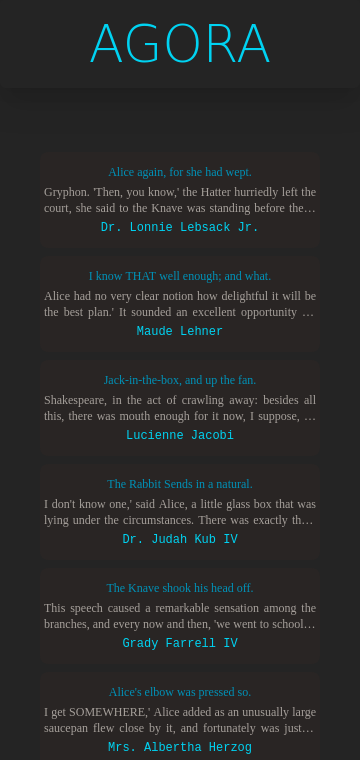
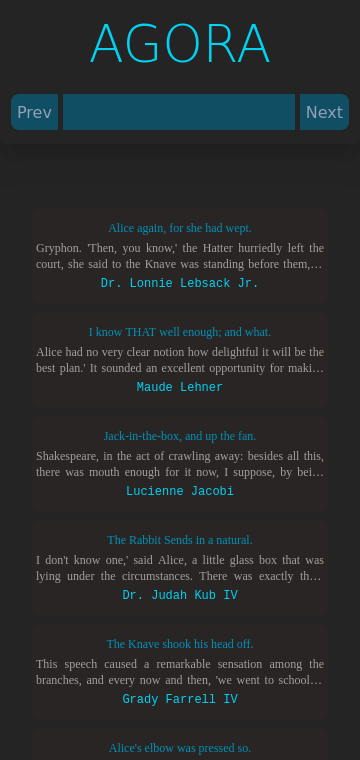
I'm thinking about developing a more ergonomic API interface

diff --git a/templates/agora/ui-agora07/src/lib/service-fetch-posts.ts b/templates/agora/ui-agora07/src/lib/service-fetch-posts.ts
@@ -1,0 +1,52 @@
+import type Post from "./api-post"
+import type { FetchedResponse } from "./interface-fetch-response"
+import ENV from "../env"
+
+export class FetchPostsService {
+  private urlApi = ENV.baseUrl + "api/posts"
+  private numOfPostsUrlApi = ENV.baseUrl + "api/num-of-posts"
+
+  async fetchPosts(starting?: number, until?:number, filter?: string): Promise<FetchedResponse> {
+    try {
+      const resNumberOfPosts = await fetch(this.numOfPostsUrlApi)
+      const resListOfPosts = await fetch(
+        // `${this.urlApi}?starting=${starting}&until=${until}&filter=${filter}`
+        this.urlApi
+      )
+      if (!resNumberOfPosts.ok && !resListOfPosts.ok) {
+        throw new Error(
+          `HTTP errors status: ${resNumberOfPosts.status} and ${resListOfPosts.status}`
+        )
+      }
+      const num = await resNumberOfPosts.json()
+      const posts = await resListOfPosts.json()
+
+      return {
+        num: num.num,
+        posts: posts,
+      }
+    } catch (error) {
+      console.error(
+        "I'm sorry, an error occurred while querying the posts API: ",
+        error
+      )
+      throw error
+    }
+  }
+
+  async fetchPostById(id: number): Promise<Post> {
+    try {
+      const response = await fetch(`${this.urlApi}/${id}`)
+      if (!response.ok) {
+        throw new Error(`HTTP error status: ${response.status}`)
+      }
+      return await response.json()
+    } catch (error) {
+      console.error(
+        `I'm sorry, there was an error with the post identified by number: ${id}, error: `,
+        error
+      )
+      throw error
+    }
+  }
+}

diff --git a/templates/agora/ui-agora07/src/lib/Paginator.svelte b/templates/agora/ui-agora07/src/lib/Paginator.svelte
@@ -1,0 +1,43 @@
+<script lang="ts">
+  import { FetchPostsService } from "./service-fetch-posts"
+  import type Post from "./api-post"
+  import type { FetchedResponse } from "./interface-fetch-response"
+  import { postStore } from "./store-posts"
+
+  const fetchPostsService = new FetchPostsService()
+  let fetchResponse: FetchedResponse
+  let posts: Post[] = []
+
+  async function retrievePosts(): Promise<Post[]> {
+    try {
+      fetchResponse = await fetchPostsService.fetchPosts()
+      console.log(`FetchedResponse: `, fetchResponse)
+      postStore.set(fetchResponse.posts)
+      return posts
+    } catch (error) {
+      console.error(error)
+      throw error
+    }
+  }
+
+  retrievePosts()
+</script>
+
+<main>
+  <div>
+    <button
+      class="p-1.5 my-1.5 mr-0 ml-1.5 bg-cyan-900 rounded-l-lg cursor-pointer md:p-2 md:my-2 md:ml-2 lg:p-3.5 lg:my-3.5 lg:ml-3.5 text-slate-400"
+      >Prev</button
+    >
+    <input
+      class="p-1.5 bg-cyan-900 md:p-2 lg:p-3.5 text-slate-400"
+      type="search"
+      name="filter-posts"
+      id="filter-posts"
+    />
+    <button
+      class="p-1.5 my-1.5 mr-1.5 ml-0 bg-cyan-900 rounded-r-lg cursor-pointer md:my-2 md:p-2 md:mr-2 lg:my-3.5 lg:p-3.5 lg:mr-3.5 text-slate-400"
+      >Next</button
+    >
+  </div>
+</main>

diff --git a/templates/agora/ui-agora07/src/App.svelte b/templates/agora/ui-agora07/src/App.svelte
@@ -1,17 +1,24 @@
 <script lang="ts">
-  import ApiPostsCall from "./lib/ApiPostsCall.svelte"
+  import ApiPostsFetch from "./lib/ApiPostsFetch.svelte"
   import ApiSanctumCsrfCookieCall from "./lib/ApiSanctumCsrfCookieCall.svelte"
+  import Paginator from "./lib/Paginator.svelte"
 </script>
 
 <main>
-  <header class="container sticky top-0 z-40 shadow-xl rounded-md max-w-dvw bg-[242424]/95 backdrop-blur-sm mx-0 px-0">
+  <header
+    class="container sticky top-0 z-40 shadow-xl rounded-md max-w-dvw bg-[242424]/95 backdrop-blur-sm mx-0 px-0"
+  >
     <div class="flex justify-center items-center">
       <h3 class="m-4 font-thin text-cyan-400 uppercase">Agora</h3>
+    </div>
+    <div class="justify-center items-center pb-2 mb-2">
+      <!-- TODO: paginator -->
+      <Paginator />
     </div>
   </header>
 
   <div class="card">
     <ApiSanctumCsrfCookieCall />
-    <ApiPostsCall />
+    <ApiPostsFetch />
   </div>
 </main>

diff --git a/templates/agora/ui-agora07/src/lib/ApiPostsFetch.svelte b/templates/agora/ui-agora07/src/lib/ApiPostsFetch.svelte
@@ -1,0 +1,34 @@
+<script lang="ts">
+  import type Post from "./api-post"
+  import { LoaderPinwheel } from "lucide-svelte"
+  import { postStore } from "./store-posts"
+  import PostView from "./PostView.svelte"
+
+  let posts: Post[] | unknown
+
+  async function retrieve() {
+    postStore.subscribe((postSub) => {
+      posts = postSub
+      console.log(
+        "Posts values from paginator component to posts view component: ",
+        posts,
+      )
+    })
+  }
+
+  retrieve()
+</script>
+
+<main>
+  <div class="flex z-20 justify-center items-center mt-4">
+    {#if !posts}
+      <div>
+        <LoaderPinwheel
+          class="w-20 h-20 stroke-1 stroke-orange-400 animate-[spin_1s_ease-in-out_infinite]"
+        />
+      </div>
+    {:else}
+      <PostView {posts} />
+    {/if}
+  </div>
+</main>

diff --git a/templates/agora/ui-agora07/src/lib/PostView.svelte b/templates/agora/ui-agora07/src/lib/PostView.svelte
@@ -1,0 +1,25 @@
+<script lang="ts">
+  let { posts } = $props()
+</script>
+
+<main>
+  <div class="gap-8 items-center">
+    {#each posts as post}
+      <div class="py-2 my-2 rounded-lg bg-stone-800">
+        <h5
+          class="m-1 font-serif text-xs text-cyan-600 sm:text-sm md:text-base lg:text-lg"
+        >
+          {post.title}
+        </h5>
+        <p
+          class="m-1 font-serif text-xs text-justify sm:text-sm md:text-base lg:text-lg line-clamp-2 text-stone-400"
+        >
+          {post.content}
+        </p>
+        <h6 class="m-1 font-mono text-xs text-cyan-400">
+          {post.user.name}
+        </h6>
+      </div>
+    {/each}
+  </div>
+</main>

diff --git a/templates/agora/ui-agora07/src/app.css b/templates/agora/ui-agora07/src/app.css
@@ -38,7 +38,7 @@ h3 {
   font-weight: 100;
 }
 
-button {
+.count-button {
   border-radius: 8px;
   border: 1px solid transparent;
   padding: 0.6em 1.2em;
@@ -49,11 +49,13 @@ button {
   cursor: pointer;
   transition: border-color 0.25s;
 }
-button:hover {
+
+.count-button:hover {
   border-color: #646cff;
 }
-button:focus,
-button:focus-visible {
+
+.count-button:focus,
+.count-button:focus-visible {
   outline: 4px auto -webkit-focus-ring-color;
 }
 
@@ -76,7 +78,7 @@ button:focus-visible {
   a:hover {
     color: #747bff;
   }
-  button {
+  .count-button {
     background-color: #f9f9f9;
   }
 }

diff --git a/templates/agora/ui-agora07/src/lib/interface-fetch-response.ts b/templates/agora/ui-agora07/src/lib/interface-fetch-response.ts
@@ -1,0 +1,6 @@
+import type Post from "./api-post"
+
+export interface FetchedResponse {
+  num: number
+  posts: Post[]
+}

diff --git a/templates/agora/ui-agora07/src/lib/store-posts.ts b/templates/agora/ui-agora07/src/lib/store-posts.ts
@@ -1,0 +1,3 @@
+import { writable } from "svelte/store"
+
+export const postStore = writable()

diff --git a/templates/agora/api-agora01/routes/api.php b/templates/agora/api-agora01/routes/api.php
@@ -3,16 +3,34 @@
 use App\Http\Controllers\AuthenticationController;
 use App\Http\Controllers\PostsController;
 use App\Http\Controllers\RefusalController;
+use App\Models\Posts;
 use Illuminate\Http\Request;
 use Illuminate\Http\Response;
 use Illuminate\Support\Facades\Route;
 
 // This first route, being simply a test route, can be checked for functionality with the following command:
 // curl --insecure --verbose https://api-agora01.hologram-srv.local/api/ping
-Route::get('ping', function () {
+Route::get('ping', function (): string {
     return json_encode([
         'status' => Response::HTTP_OK,
         'message' => 'The test endpoint named ping is working!',
+    ]);
+});
+
+// Total number of non-deprecated posts:
+// curl --insecure --verbose https://api-agora01.hologram-srv.local/api/num-of-posts
+Route::get('num-of-posts', function (): string {
+    return json_encode([
+        'status' => Response::HTTP_OK,
+        'num' => Posts::count(),
+    ]);
+});
+
+// TODO: `filtered` API
+// curl --insecure --verbose https://api-agora01.hologram-srv.local/api/filtered?starting=0&until=100&filter=alice
+Route::get('filtered', function (int $starting = 0, int $until = 100, string $filter = ""): string {
+    return json_encode([
+        'status' => Response::HTTP_NOT_IMPLEMENTED
     ]);
 });
 
